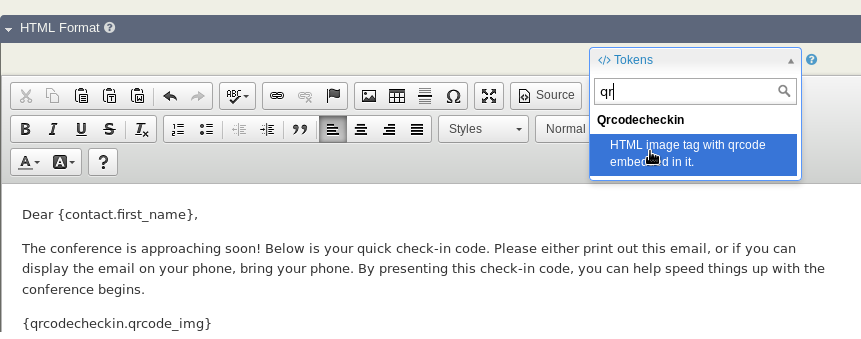
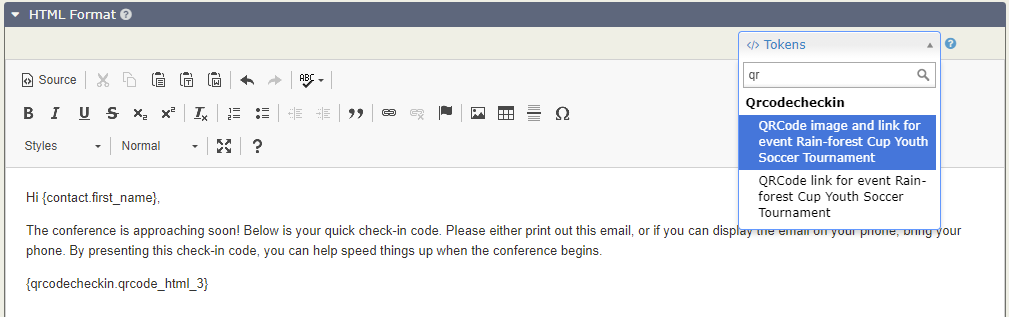
Update documentation to reflect multiple event support

diff --git a/README.md b/README.md
@@ -19,11 +19,15 @@ Once enabled, each event configuration screen will have a new checkbox underneat
 
 ![Checkbox to enable QR Code checkin for this event](/images/qrcode-event-configuration.png)
 
-This setting can only be set on one event at a time.
+This setting can be set on any number of events at a time.
 
 After setting the checkbox for your event, search for all contacts that are registered for the event and place them in a group.
 
-Then, send an email to the group, that includes the qrcodecheckin.qrcode_img token:
+Then, send an email to the group, that includes the QR Code image token. There will be a token for each QR Code-enabled event that:
+
+ * is set to active
+ * allows online registration
+ * has a start date later than "now" (ie. at the time of composing your email)
 
 ![Same email that include QR Code checkin token](/images/qrcode-compose-email.png)
 
@@ -59,21 +63,31 @@ If they have any other status, it will be displayed in red:
 
 ## Tokens
 
-* qrcodecheckin.qrcode_html - An HTML block to embed into your email containing the QRCode image and supporting text.
-* qrcodecheckin.qrcode_url - contains the direct URL to the QRCode image on the server.
+Tokens are generated for each event configured to use QR Codes. There are two tokens per event you can use:
+* qrcodecheckin.qrcode_html_<eventID> - An HTML block to embed into your email containing the QRCode image and supporting text.
+* qrcodecheckin.qrcode_url_<eventID> - contains the direct URL to the QRCode image on the server.
+
+When composing your email the tokens are searchable by your event's name (you don't need to know the event ID).
 
 ## Changing contents of QRCode / Tokens
 
 If you wish to override the values of the qrcode tokens / change the contents of the QR Code you can implement 
-`hook_civicrm_qrcodecheckin_tokenValues`:
+`hook_civicrm_qrcodecheckin_tokenValues`. You'll need to iterate through an array of possible tokens as they are dynamically
+determined by virtue of the events that have QR support enabled.
 
 eg.
 ```
 function myextension_civicrm_qrcodecheckin_tokenValues(&$values, $contact_id, &$handled) {
-  $link = 'http://example.org/qrcodes/myqrcode.png';
-  $values['qrcodecheckin.qrcode_url'] = $link;
-  $values['qrcodecheckin.qrcode_html'] = '<p>'. 
-    <img alt="QR Code with participant details" src="' . $link . '">Overridden HTML</p>
+  foreach ($values as $key => $value) {
+    $event_id = preg_replace('/\D/', '', $key);
+    $link = 'http://example.org/qrcodes/' . $event_id . '/' . $contact_id . '/myqrcode.png';
+    if (strpos($key, 'url')) {
+      $value = $link;
+    }
+    else {
+      $value = '<p><img alt="QR Code with participant details" src="' . $link . '">Overirrden HTML</p>';
+    }
+  }
   // If we handled the generation of the QRCode and URL set $handled=TRUE
   $handled = TRUE;
 }
@@ -82,8 +96,8 @@ function myextension_civicrm_qrcodecheckin_tokenValues(&$values, $contact_id, &$
 
 ## Requirements
 
-* PHP v5.4+
-* CiviCRM 4.7 
+* PHP v7.2+
+* CiviCRM 5 
 
 ## Installation (Web UI)
 
